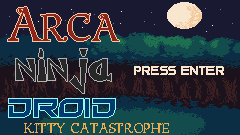
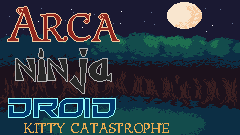
WIP of UI code

Changed region(s): [[0.5542, 0.4741, 0.9333, 0.563]]

diff --git a/js/Engine/UIElement.js b/js/Engine/UIElement.js
@@ -1,0 +1,60 @@
+
+function UIElement (initX,initY, image) {
+
+    let x = initX;
+    let y = initY;
+    this.image = image;
+
+    let width;
+    let height;
+    
+
+    this.hasFocus = false;
+    this.notSelectable = true;
+
+    this.draw = function () {
+
+        width = this.image.width;
+        height = this.image.height;
+        if ( width === 0 || height === 0) {return;} //something is horribly wrong here
+
+        if (this.notSelectable) {
+            tintCanvas.width = width;
+            tintCanvas.height = height;
+
+            
+            tintContext.drawImage(this.image, 0,0, width,height);
+            tintContext.globalCompositeOperation = "source-atop";
+            tintContext.fillStyle = "rgba(0,0,0,0.65)";
+            tintContext.fillRect(0,0, tintCanvas.width,tintCanvas.height);
+            tintContext.globalCompositeOperation = "source-over";
+            canvasContext.drawImage(tintCanvas, x-width/2, y-height/2, width, height);
+        }
+
+        else {
+
+            if (this.hasFocus) {
+                width *= 1.2;
+                height *= 1.2;
+            }
+            canvasContext.drawImage(this.image, x-width/2,y-height/2, width,height);
+        }
+        
+
+            
+    }
+
+
+    this.getX = function () {
+        return x;
+    }
+    this.getY = function () {
+        return y;
+    }
+    this.setX = function (newX) {
+        x = newX;
+    }
+    this.setY = function (newY) {
+        y = newY;
+    }
+};

diff --git a/js/GameStates.js b/js/GameStates.js
@@ -76,6 +76,7 @@ function PauseState() {
         canvasContext.drawImage(this.background, 0, 0, canvas.width, canvas.height);
         drawAllCharacters();
         drawAllTerrain();
+        ParticleRenderer.renderAll(canvasContext);
         colorRectAlpha(0,0,canvas.width,canvas.height,[0,0,0,0.65]);
         canvasContext.drawImage(gamePausedText, 0, 35);
   };
@@ -93,6 +94,7 @@ PauseState.prototype = baseState;
 function MainMenuState() {
 
     this.background = Images.getImage("mainMenu");
+    this.testButton = new UIElement(180,67.5,Images.getImage("pressEnter"));
 
     this.update = function () {
 
@@ -102,11 +104,19 @@ function MainMenuState() {
         if (Input.getKeyDown("enter")) {
             return GameStates.inGameState;
         }
+        if (Input.getKeyDown("g")) {
+            this.testButton.hasFocus = !this.testButton.hasFocus;
+        }
+        if (Input.getKeyDown("h")) {
+            this.testButton.notSelectable = !this.testButton.notSelectable;
+        }
     };
 
     this.draw = function () {
         canvasContext.clearRect(0, 0, canvas.width, canvas.height);
         canvasContext.drawImage(this.background, 0, 0, canvas.width, canvas.height);
+        this.testButton.draw();
+        ParticleRenderer.renderAll(canvasContext);
     };
 
     this.enter = function () {

diff --git a/js/Engine/Images.js b/js/Engine/Images.js
@@ -76,6 +76,7 @@ var fileNames = [
 
     //UI and menu art
     "images/UI/mainMenu.png",
+    "images/UI/pressEnter.png",
     "images/UI/gamePaused.png",
 
     //Player
@@ -94,7 +95,6 @@ var fileNames = [
     "images/Characters/Kangarobot/kangarobotWalk.png",
     "images/Characters/Kangarobot/kangarobotStunned.png",
 
-
 ];
 
 var picsToLoad = fileNames.length;
@@ -102,6 +102,7 @@ var picsToLoad = fileNames.length;
 function countLoadedImagesAndLaunchIfReady() {
     picsToLoad--;
     if (picsToLoad == 0) {
+
         imageLoadingDoneSoStartGame();
     }
 }

diff --git a/index.html b/index.html
@@ -111,6 +111,7 @@
     <script type="text/javascript" src="js/Engine/Images.js"></script>
     <script type="text/javascript" src="js/Engine/RectCollider.js"></script>
     <script type="text/javascript" src="js/Engine/ParticleSystem.js"></script>
+    <script type="text/javascript" src="js/Engine/UIElement.js"></script>
     <script type="text/javascript" src="js/Engine/Animation.js"></script>
     <script type="text/javascript" src="js/Engine/StateMachine.js"></script>
     <script type="text/javascript" src="js/Engine/GraphicsCommon.js"></script>
